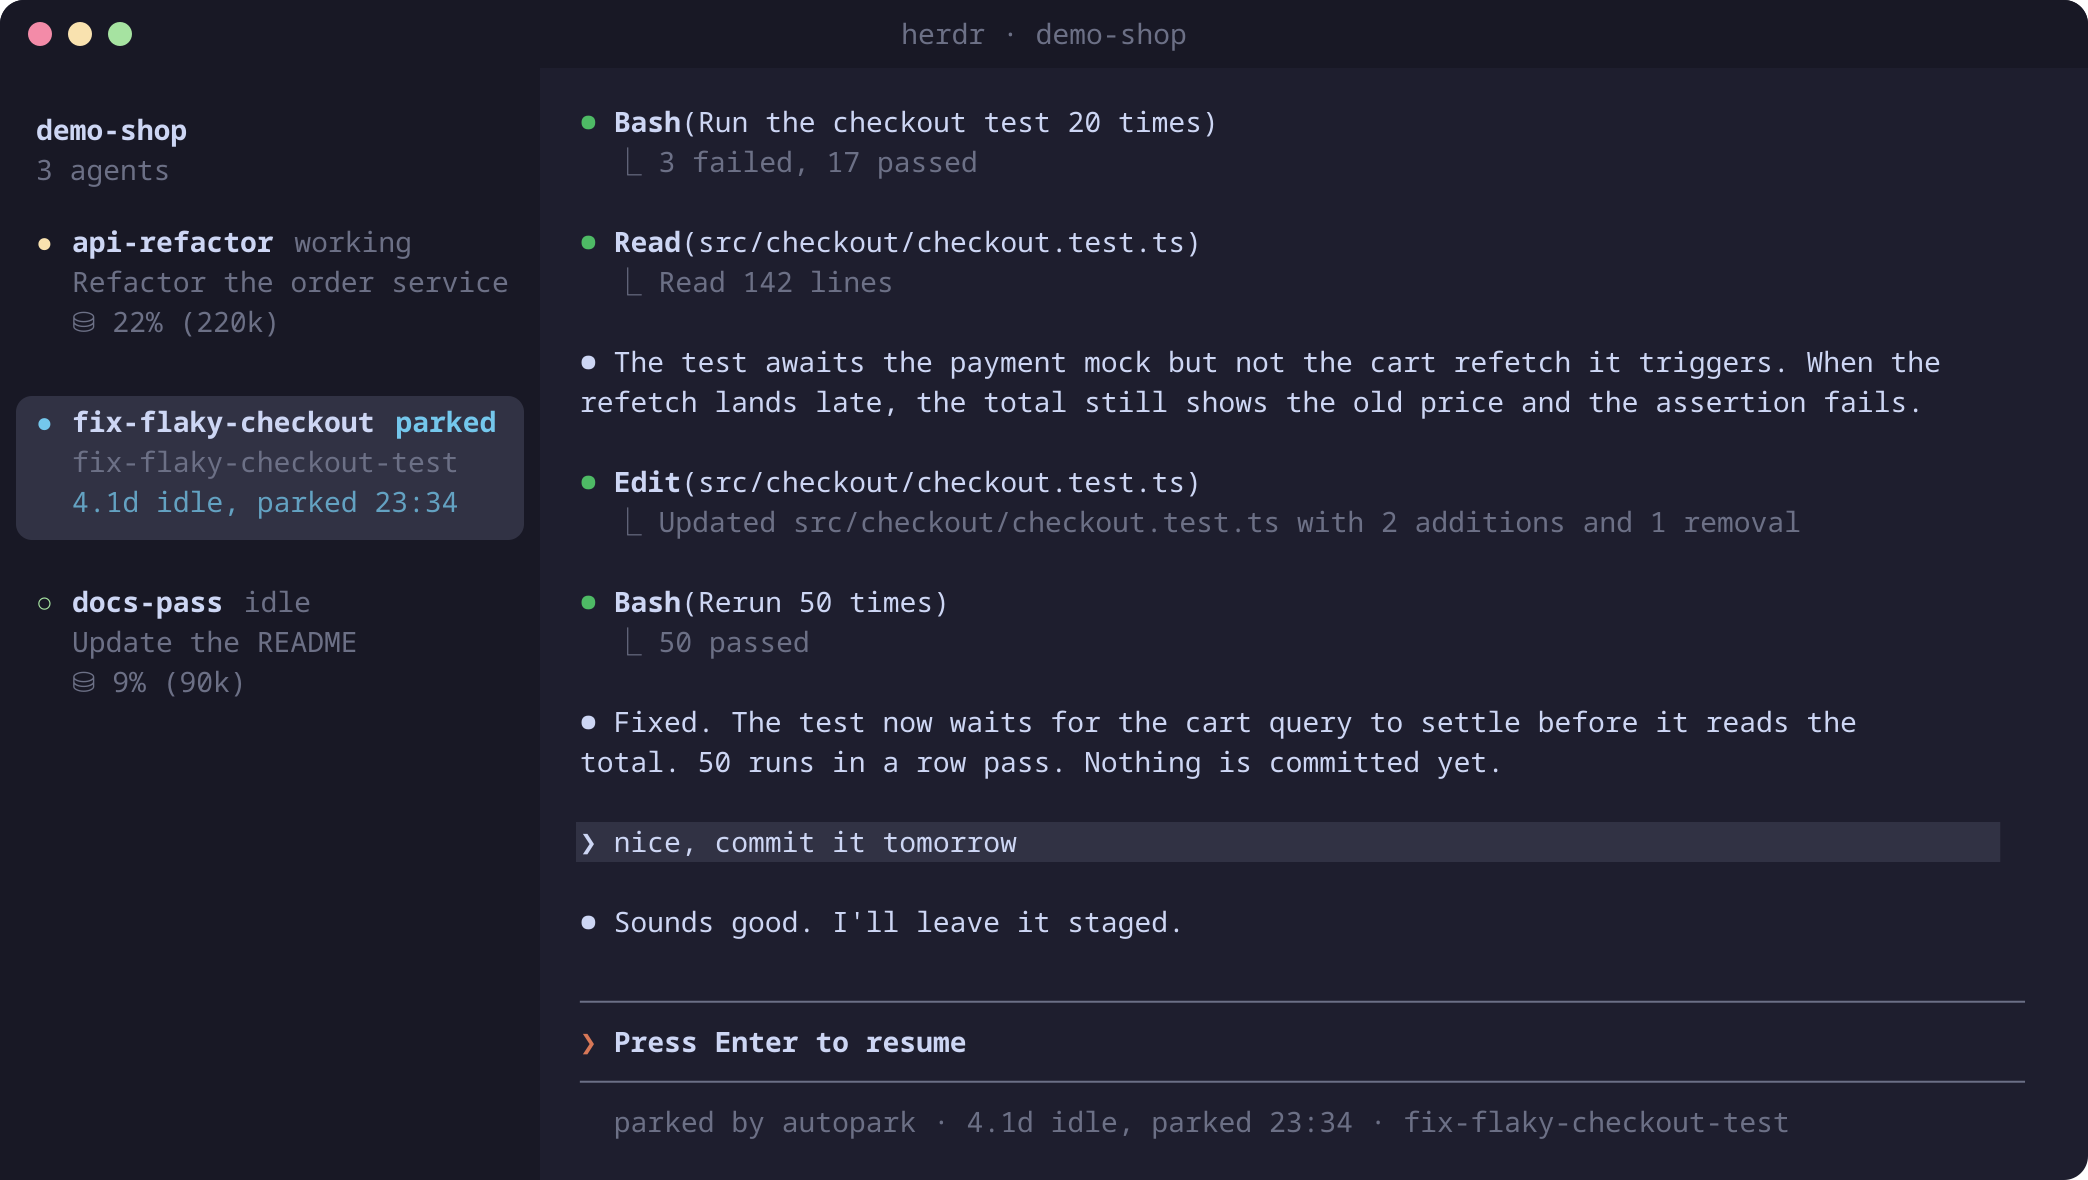
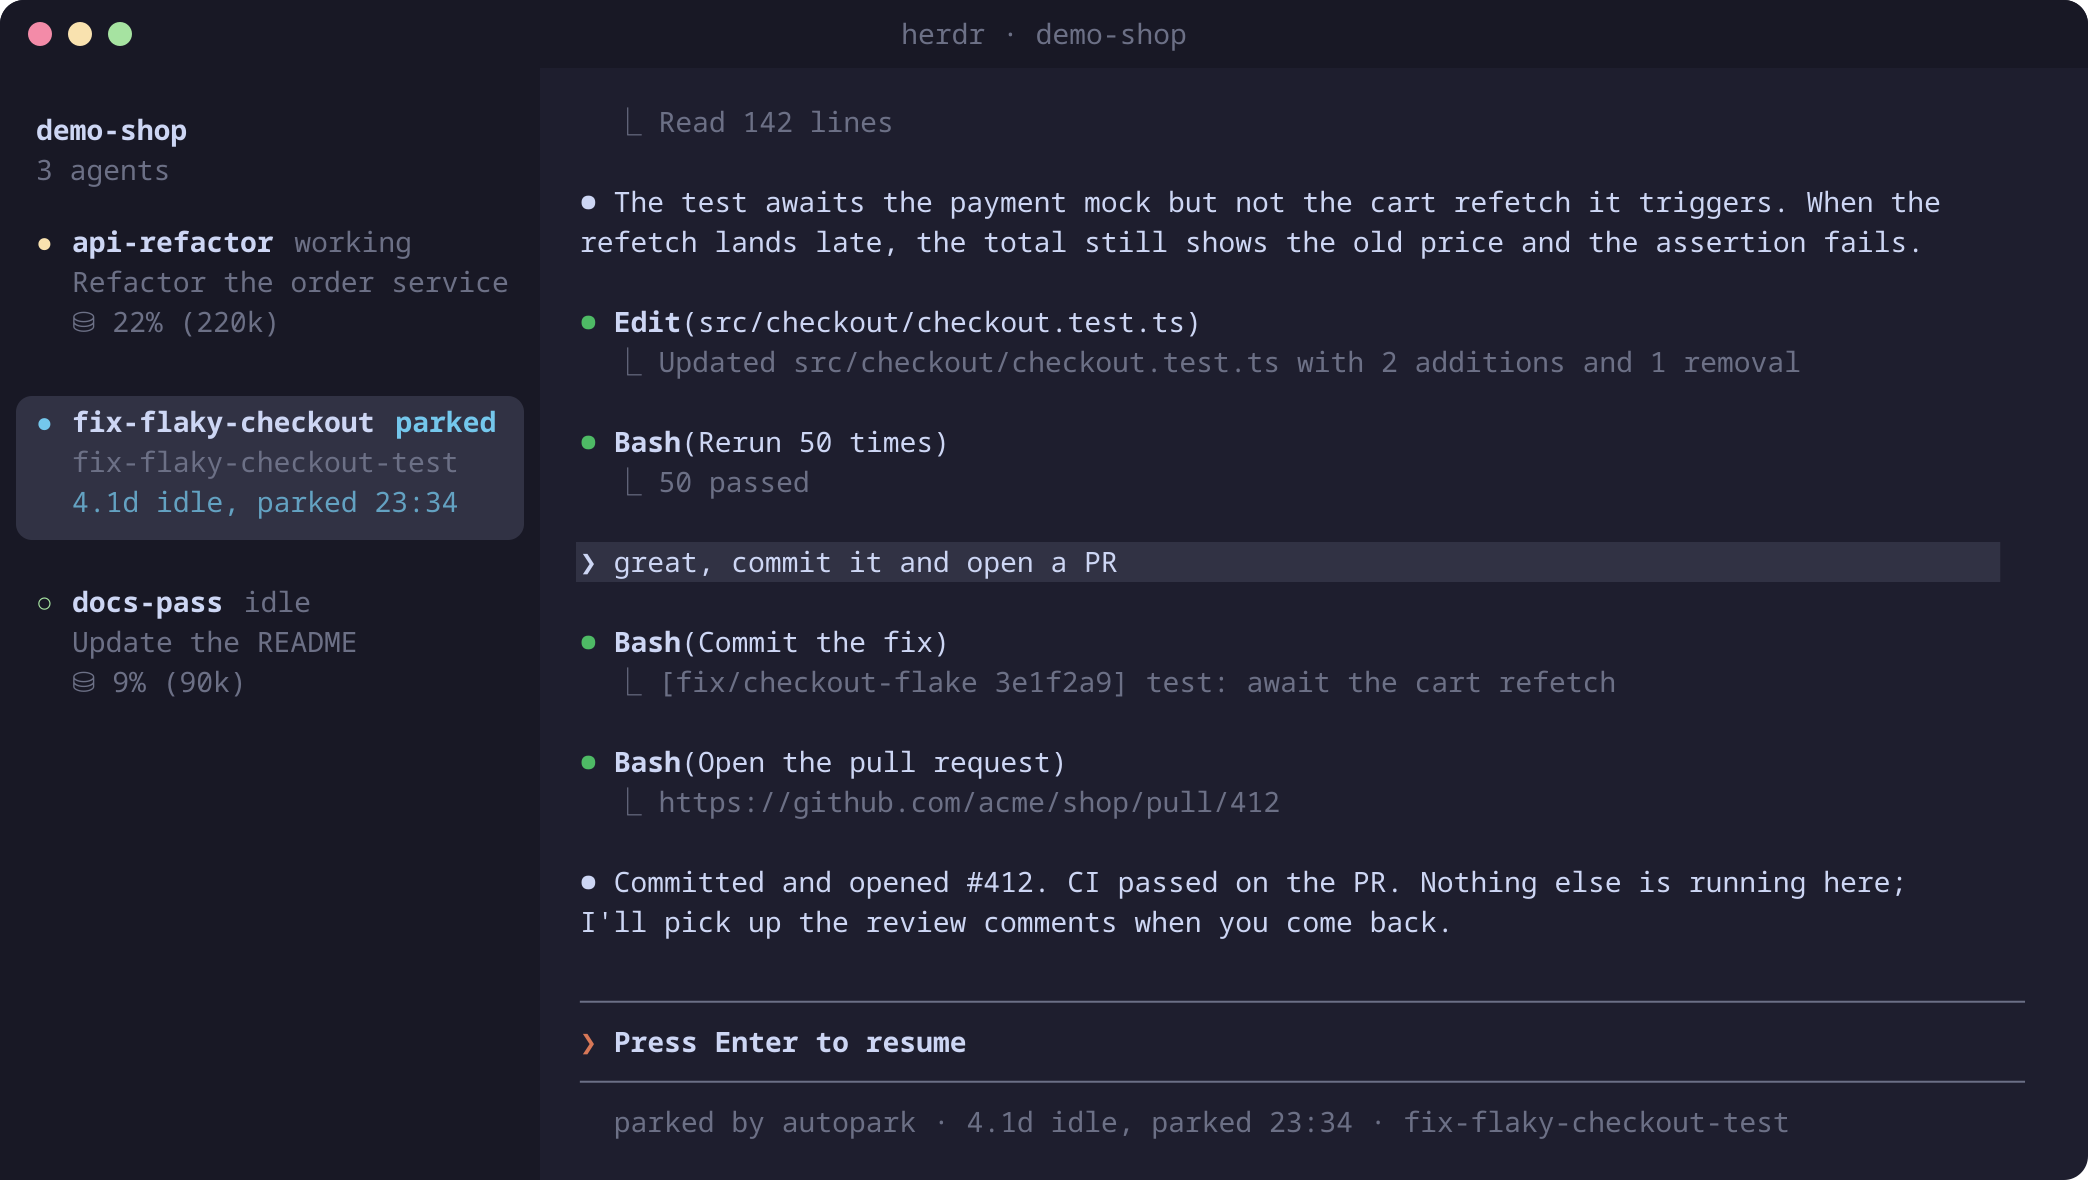
docs: finished-task demo, adapter guide, cron rule in the readme
The old screenshot ended on 'commit it tomorrow', which read as if a
parked agent would act later. The new one ends on finished work. The
adapter notes become a formal 'how to add support' section, and the
idle rules say plainly that live Claude crons block parking.

diff --git a/README.md b/README.md
@@ -45,15 +45,27 @@ To hack on it, clone the repo and use `herdr plugin link <path>`, which runs the
 | [Pi](https://github.com/badlogic/pi-mono) | `pi` | 🗺 next | | |
 | Copilot CLI, Cursor Agent, Amp, Droid, Kimi, Qwen Code, Grok and the other kinds herdr detects | | 💭 later | | |
 
-Agents without an adapter are left alone. Each one is a small class in [`bin/harnesses.py`](bin/harnesses.py) that answers five questions:
+### How to add support for another agent harness
 
-1. What is its process called?
-2. Which session is it on? (herdr often reports this; otherwise the adapter looks it up.)
-3. When was it last active, and is anything still pending, like a scheduled wakeup or a background job?
-4. What does the conversation look like? (Only used when the screen capture is missing.)
-5. Which command resumes it?
+Each harness is an adapter class in [`bin/harnesses.py`](bin/harnesses.py), registered in the `HARNESSES` map under the agent kind herdr reports. The sweep and the parked view never inspect a harness directly; they go through this interface:
 
-The rows marked "next" are the ones worth doing first. Each needs someone to check where the agent keeps its sessions and how it resumes one, and then a real park and resume in herdr. Pull requests are welcome, and so are issues that just say "I'd use this with X".
+| Member | Contract |
+| --- | --- |
+| `kind` | The herdr agent kind the adapter handles, for example `codex`. |
+| `procs` | Process names (`/proc/<pid>/comm`) that identify the harness under the pane's shell. |
+| `session_id(agent, pid, cwd)` | The id of the running session. Prefer herdr's `agent_session` report; fall back to the harness's own state. Return `None` when the answer is ambiguous, and the pane is skipped. |
+| `activity(sid, since_epoch)` | A tuple of the last user or assistant message time (epoch seconds) and a list of pending work, such as scheduled jobs or background tasks. Any pending item keeps the session awake. `since_epoch` is the process start; state that dies with the process should be ignored before it. |
+| `blocks(sid)` | The conversation as display blocks, oldest first: `('user', text)`, `('assistant', text)`, `('tool', name, arg)`, `('result', first_line)`. Used only when the screen capture is missing. |
+| `relaunch(argv, sid)` | The argv that resumes the session, built from the original argv with any existing resume flags removed. |
+
+An adapter is ready to merge when:
+
+1. It reads session state from the harness's own files or database, read-only.
+2. `activity` reports every kind of work that stops when the process exits, so such sessions are never parked.
+3. `bin/test_autopark.py` covers `relaunch` and `activity` with fixture data.
+4. A real park and resume has been done in herdr: the parked view shows the conversation, and Enter brings back the same session with the original flags.
+
+The agents marked "next" in the table are the priority. Pull requests are welcome, and so are issues that name a harness you would use this with.
 
 ## What you get
 
@@ -110,7 +122,7 @@ It parks an agent only when all of these are true:
 
 - herdr reports it idle or done, and you're not focused on it
 - nothing was said, and no subagent or workflow file changed, within `idle_minutes`
-- nothing is pending: for Claude a `/loop` wakeup, cron job, monitor or subagent; for Hermes a delegated task or background process
+- nothing is pending: for Claude a `/loop` wakeup, cron job, monitor or subagent; for Hermes a delegated task or background process. Claude's cron jobs live only in the running process, so parking would cancel them: a session keeps every recurring job until it is deleted or reaches Claude's 7-day expiry, and every one-shot job until its time has passed
 - the agent has no child process other than its own MCP and language servers, so a shell, dev server or test run keeps it awake
 - the input box has no unsent draft
 - you didn't resume it from a park within `resume_grace_minutes`
